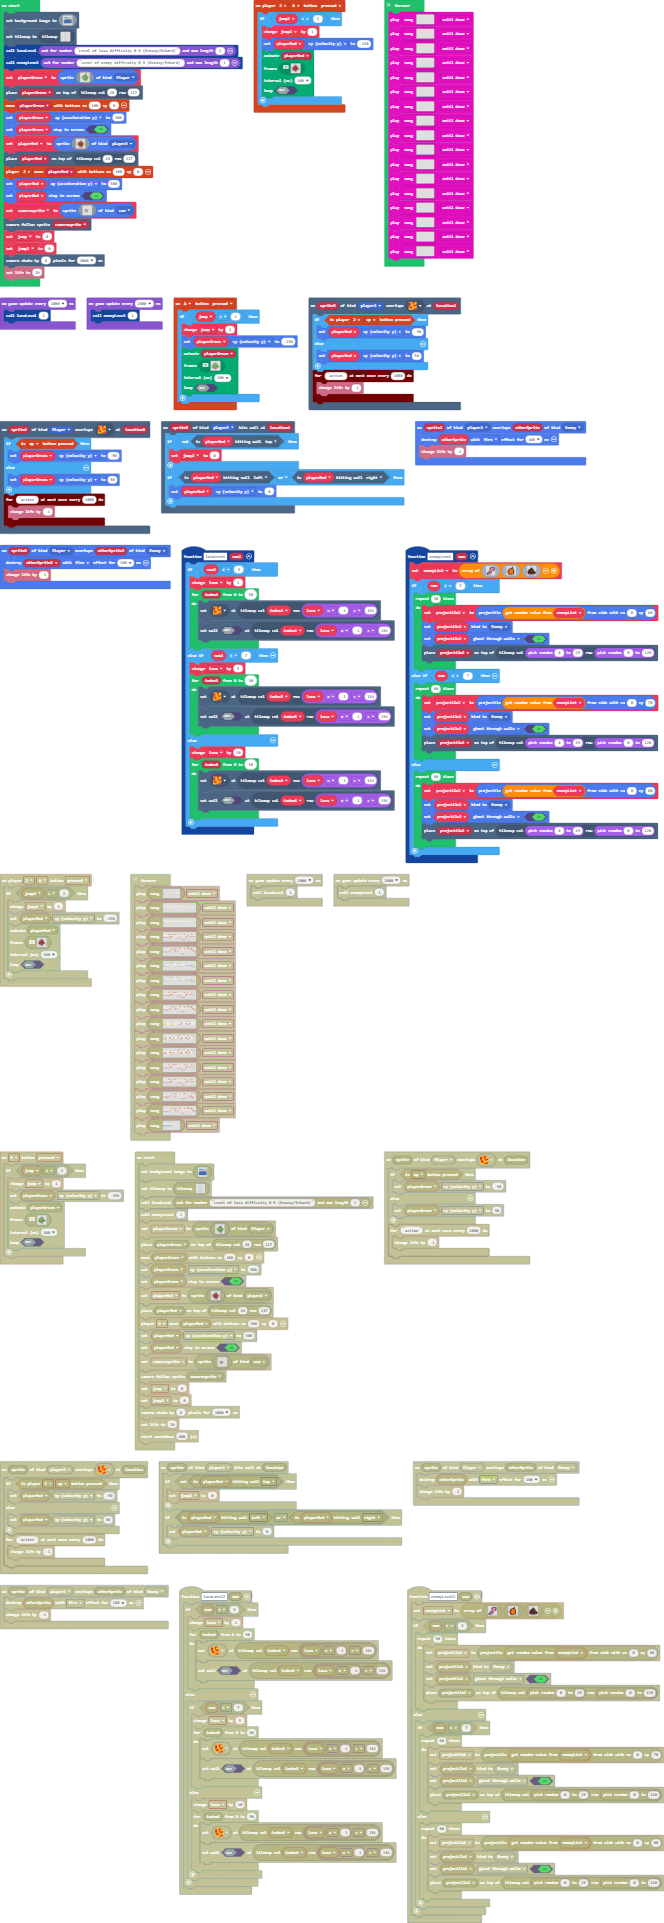
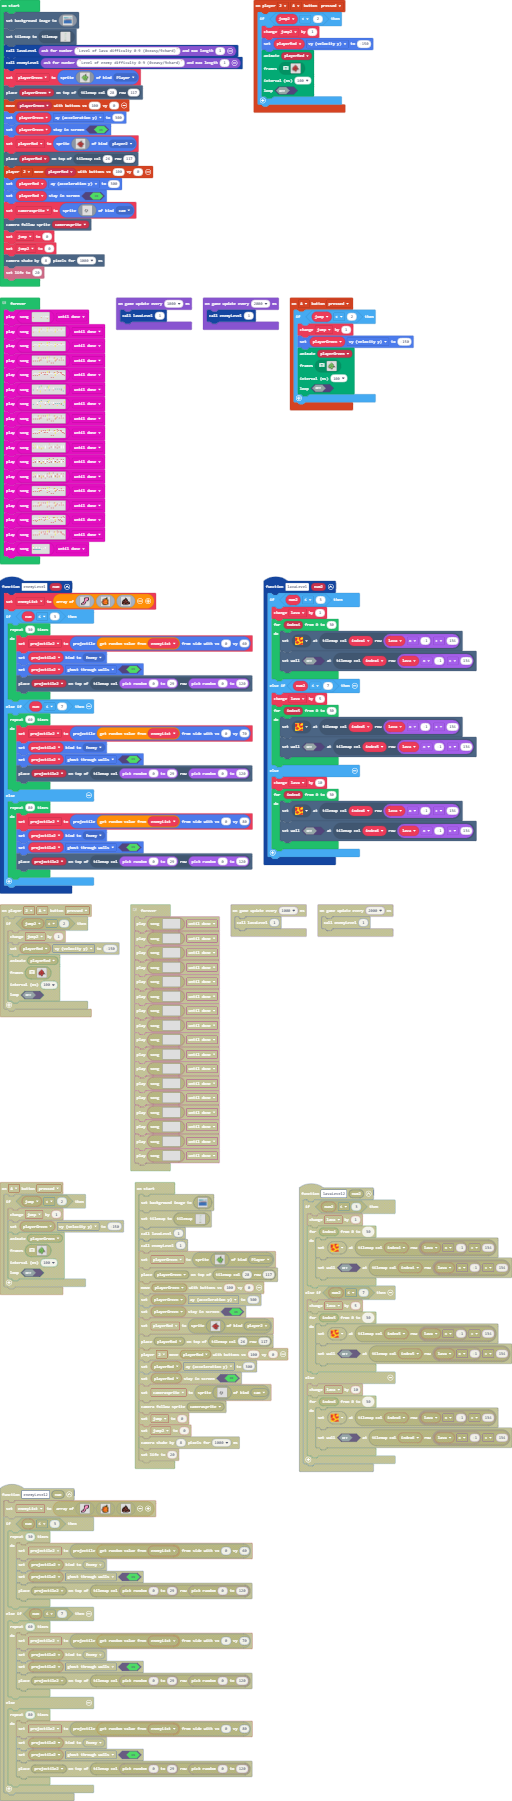
music changes

diff --git a/main.ts b/main.ts
@@ -451,21 +451,21 @@ game.onUpdateInterval(1000, function () {
 })
 // @InvalidProject
 forever(function () {
-    music.play(music.createSong(hex`00780004080200`), music.PlaybackMode.UntilDone)
-    music.play(music.createSong(hex`00780004080200`), music.PlaybackMode.UntilDone)
-    music.play(music.createSong(hex`00780004080200`), music.PlaybackMode.UntilDone)
-    music.play(music.createSong(hex`00780004080200`), music.PlaybackMode.UntilDone)
-    music.play(music.createSong(hex`00780004080200`), music.PlaybackMode.UntilDone)
-    music.play(music.createSong(hex`00780004080200`), music.PlaybackMode.UntilDone)
-    music.play(music.createSong(hex`00780004080200`), music.PlaybackMode.UntilDone)
-    music.play(music.createSong(hex`00780004080200`), music.PlaybackMode.UntilDone)
-    music.play(music.createSong(hex`00780004080200`), music.PlaybackMode.UntilDone)
-    music.play(music.createSong(hex`00780004080200`), music.PlaybackMode.UntilDone)
-    music.play(music.createSong(hex`00780004080200`), music.PlaybackMode.UntilDone)
-    music.play(music.createSong(hex`00780004080200`), music.PlaybackMode.UntilDone)
-    music.play(music.createSong(hex`00780004080200`), music.PlaybackMode.UntilDone)
-    music.play(music.createSong(hex`00780004080200`), music.PlaybackMode.UntilDone)
-    music.play(music.createSong(hex`00780004080200`), music.PlaybackMode.UntilDone)
-    music.play(music.createSong(hex`00780004080200`), music.PlaybackMode.UntilDone)
-    music.play(music.createSong(hex`00780004080200`), music.PlaybackMode.UntilDone)
[17 lines of base64/hex data omitted]
 })
